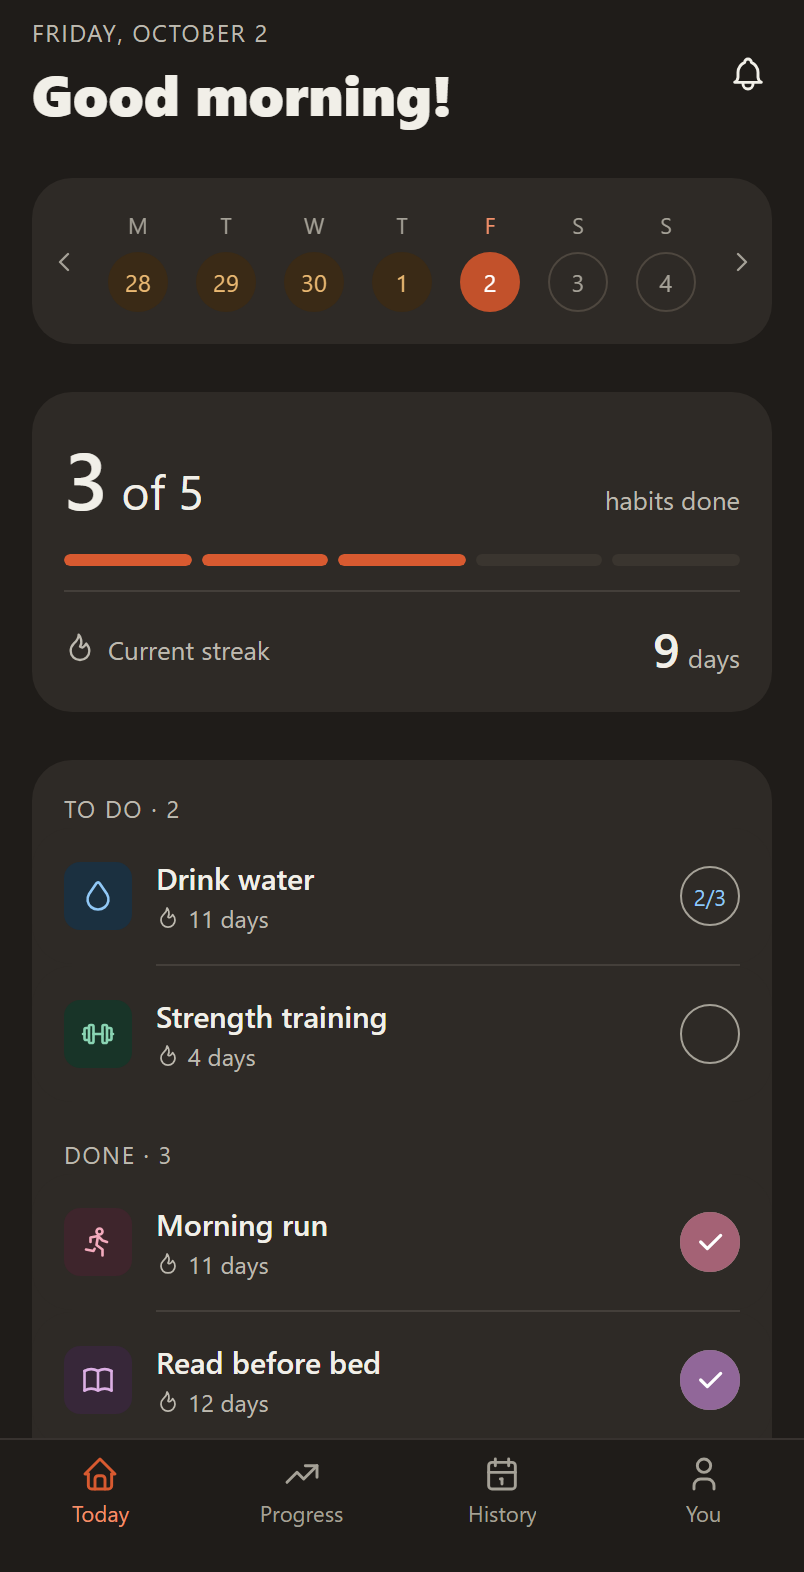
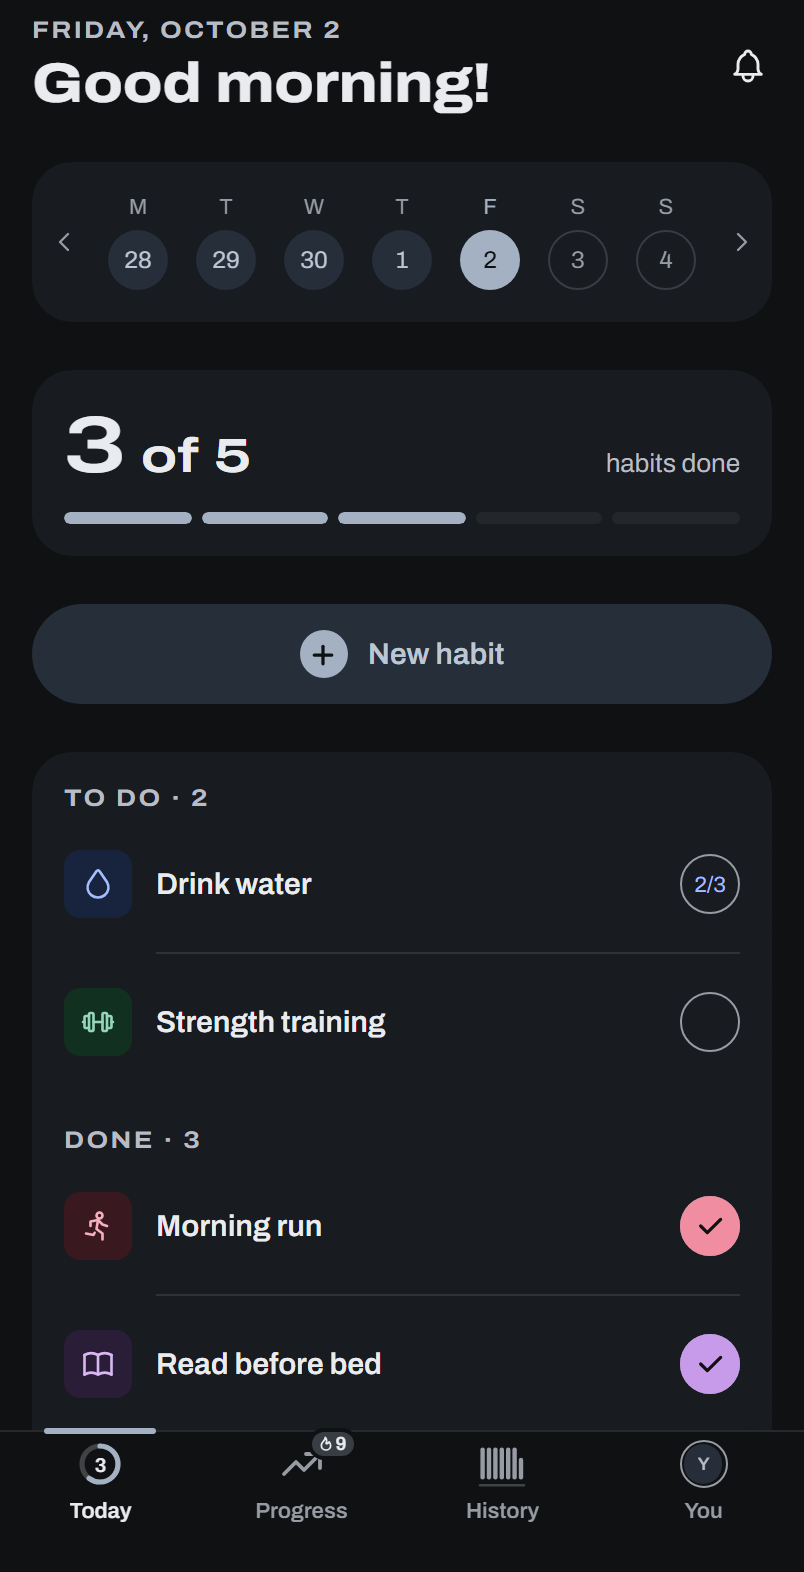
Retake the landing page's pictures of Today in Cold Steel

diff --git a/index.html b/index.html
@@ -69,8 +69,8 @@
       </span>
     </div>
     <picture>
-      <source srcset="today-dark.png?v=6ab7033c39" media="(prefers-color-scheme: dark)">
-      <img src="today-light.png?v=0bf3e87691" width="402" height="786" alt="Nanbit's Today screen, with sample habits: 3 of 5 habits done, a 9-day streak, two habits to do and three done.">
+      <source srcset="today-dark.png?v=bad4b9c546" media="(prefers-color-scheme: dark)">
+      <img src="today-light.png?v=85c3469e1d" width="402" height="786" alt="Nanbit's Today screen, with sample habits: 3 of 5 habits done, a 9-day streak, two habits to do and three done.">
     </picture>
     <div class="home-bar" aria-hidden="true"></div>
   </div>
